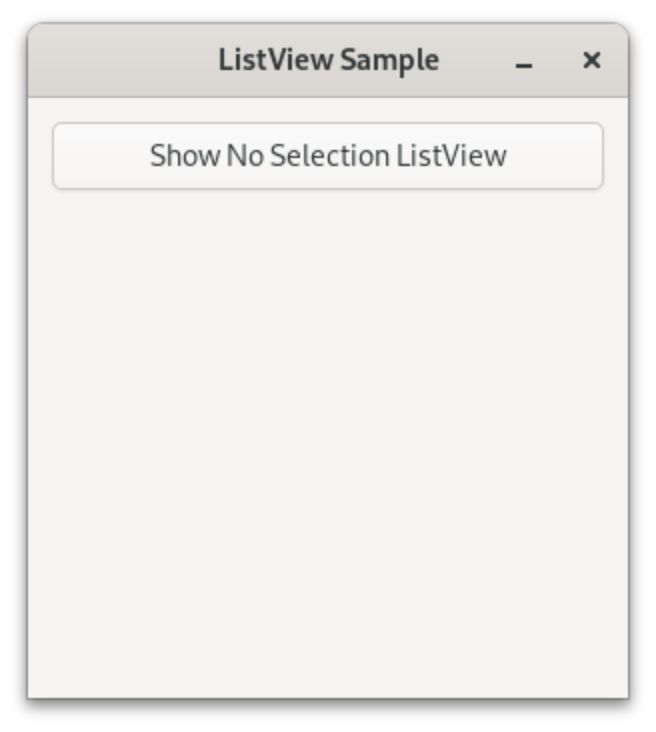
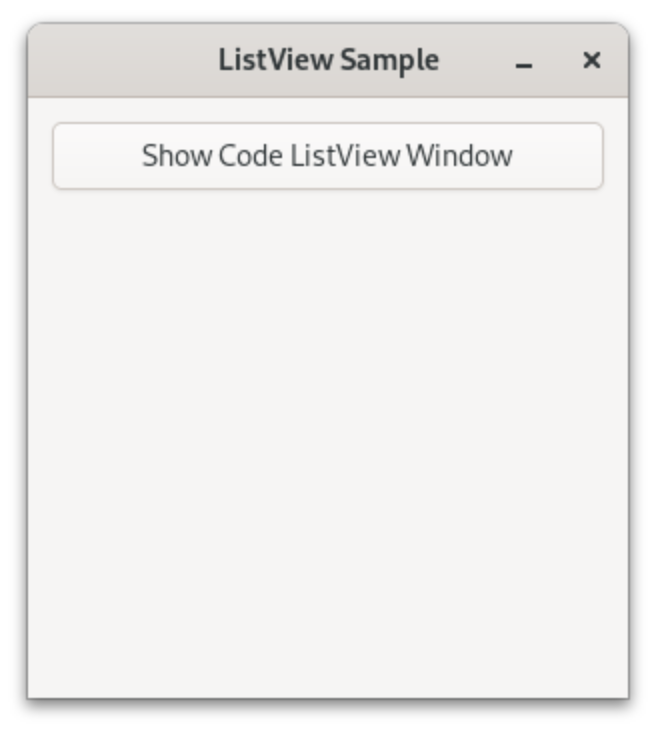
Refactored in separate class to better reflect listitem template does not need signal handlers

Changed region(s): [[0.2134, 0.1803, 0.7927, 0.2404]]

diff --git a/ListView.App/CodeListViewWindow.cs b/ListView.App/CodeListViewWindow.cs
@@ -1,17 +1,14 @@
 namespace ListView.App;
 
-using System.Reflection;
 using Gtk;
-using GObject;
 using static Gtk.SignalListItemFactory;
-using GLib;
 
-public class NoSelectionListViewWindow : Window
+public class CodeListViewWindow : Window
 {
-    public NoSelectionListViewWindow()
+    public CodeListViewWindow()
         : base()
     {
-        Title = "No Selection ListView";
+        Title = "Code ListView";
         SetDefaultSize(300, 300);
 
         var stringList = StringList.New(["One", "Two", "Three", "Four"]);
@@ -24,23 +21,7 @@ public class NoSelectionListViewWindow : Window
 
         var scrolledWindow = ScrolledWindow.New();
         scrolledWindow.Child = listView;
-        scrolledWindow.WidthRequest = 150;
-
-        var singleSelectionModel = SingleSelection.New(stringList);
-        var bytes = Assembly.GetExecutingAssembly()
-            .ReadResourceAsByteArray("ListItemTemplate.ui");
-        var builderListItemFactory = BuilderListItemFactory.NewFromBytes(null, Bytes.New(bytes));
-        var listViewRight = ListView.New(singleSelectionModel, builderListItemFactory);
-
-        var scrolledWindowRight = ScrolledWindow.New();
-        scrolledWindowRight.WidthRequest = 150;
-        scrolledWindowRight.Child = listViewRight;
-
-        var gtkBox = Gtk.Box.New(Gtk.Orientation.Horizontal, 0);
-        gtkBox.Append(scrolledWindow);
-        gtkBox.Append(scrolledWindowRight);
-
-        Child = gtkBox;
+        Child = scrolledWindow;
     }
 
     private void SetupSignalHandler(SignalListItemFactory sender, SetupSignalArgs args)

diff --git a/ListView.App/Program.cs b/ListView.App/Program.cs
@@ -3,11 +3,15 @@
 var application = Gtk.Application.New("org.kashif-code-samples.listview.sample", Gio.ApplicationFlags.FlagsNone);
 application.OnActivate += (sender, args) =>
 {
-    var buttonShowNoSelectionListView = CreateButton("Show No Selection ListView");
-    buttonShowNoSelectionListView.OnClicked += (_, _) => new NoSelectionListViewWindow().Show();
+    var buttonShowCodeListView = CreateButton("Show Code ListView Window");
+    buttonShowCodeListView.OnClicked += (_, _) => new CodeListViewWindow().Show();
+
+    var buttonShowTemplateListView = CreateButton("Show Template ListView Window");
+    buttonShowTemplateListView.OnClicked += (_, _) => new TemplateListViewWindow().Show();
 
     var gtkBox = Gtk.Box.New(Gtk.Orientation.Vertical, 0);
-    gtkBox.Append(buttonShowNoSelectionListView);
+    gtkBox.Append(buttonShowCodeListView);
+    gtkBox.Append(buttonShowTemplateListView);
 
     var window = Gtk.ApplicationWindow.New((Gtk.Application) sender);
     window.Title = "ListView Sample";

diff --git a/ListView.App/TemplateListViewWindow.cs b/ListView.App/TemplateListViewWindow.cs
@@ -1,0 +1,27 @@
+namespace ListView.App;
+
+using System.Reflection;
+using Gtk;
+using GObject;
+using GLib;
+
+public class TemplateListViewWindow : Window
+{
+    public TemplateListViewWindow()
+        : base()
+    {
+        Title = "Template ListView";
+        SetDefaultSize(300, 300);
+
+        var stringList = StringList.New(["One", "Two", "Three", "Four"]);
+        var selectionModel = SingleSelection.New(stringList);
+        var bytes = Assembly.GetExecutingAssembly()
+            .ReadResourceAsByteArray("ListItemTemplate.ui");
+        var listItemFactory = BuilderListItemFactory.NewFromBytes(null, Bytes.New(bytes));
+        var listView = ListView.New(selectionModel, listItemFactory);
+
+        var scrolledWindow = ScrolledWindow.New();
+        scrolledWindow.Child = listView;
+        Child = scrolledWindow;
+    }
+}

diff --git a/README.md b/README.md
@@ -41,7 +41,7 @@ Running the application, will display an empty window.
 
 ## No Selection ListView
 Next lets enhance our sample application to add a window that has a simple `ListView` with no selection.
-First lets add a new class `NoSelectionListViewWindow` inherting from `Gtk.Window` to our project.
+First lets add a new class `CodeListViewWindow` inherting from `Gtk.Window` to our project.
 `ListView` will need 2 objects,
 * SelctionModel - is an interface to support selection of items
 * ListItemFactory - creates or recycles GtkListItem and connects it with an item of the list model.
@@ -52,9 +52,9 @@ You might get a warning on `ListView` is a namespace but being used as a type, t
 
 Here is the code for the class.
 ```csharp
-public class NoSelectionListViewWindow : Window
+public class CodeListViewWindow : Window
 {
-    public NoSelectionListViewWindow()
+    public CodeListViewWindow()
         : base()
     {
         Title = "No Selection ListView";
@@ -110,11 +110,11 @@ Update the `OnActivate` handler as follows.
 ```csharp
 application.OnActivate += (sender, args) =>
 {
-    var buttonShowNoSelectionListView = CreateButton("Show No Selection ListView");
-    buttonShowNoSelectionListView.OnClicked += (_, _) => new NoSelectionListViewWindow().Show();
+    var buttonShowCodeListView = CreateButton("Show Code ListView Window");
+    buttonShowCodeListView.OnClicked += (_, _) => new CodeListViewWindow().Show();
 
     var gtkBox = Gtk.Box.New(Gtk.Orientation.Vertical, 0);
-    gtkBox.Append(buttonShowNoSelectionListView);
+    gtkBox.Append(buttonShowCodeListView);
 
     var window = Gtk.ApplicationWindow.New((Gtk.Application) sender);
     window.Title = "ListView Sample";
@@ -140,13 +140,13 @@ static Gtk.Button CreateButton(string label)
 Running the application will show our application window with a button.  
 <figure>
   <a href="images/02-app-window-with-button.png"><img src="images/02-app-window-with-button.png"></a>
-  <figcaption>Empty Window</figcaption>
+  <figcaption>Application Window</figcaption>
 </figure>  
 
 And clicking on that button will open a new window with a simple list as follows.  
 <figure>
-  <a href="images/03-list-view-window.png"><img src="images/03-list-view-window.png"></a>
-  <figcaption>Empty Window</figcaption>
+  <a href="images/03-code-list-view-window.png"><img src="images/03-code-list-view-window.png"></a>
+  <figcaption>Code List View Window</figcaption>
 </figure>  
 
 ## BuilderListItemFactory
@@ -168,33 +168,50 @@ I have added the following ui file copied from [article](https://toshiocp.github
 </interface>
 ```
 
-I have added another scrolled window and list view in `NoSelectionListViewWindow`. `ListItemTemplate.ui` file is set as Embedded Resource and for `ReadResourceAsByteArray` we would need to add `using GObject;`. Following code is added replacing last line of the constructor.
+Next I have added another class `TemplateListViewWindow` with following content. `ListItemTemplate.ui` file is set as Embedded Resource and for `ReadResourceAsByteArray` we would need to add `using GObject;`.
 ```csharp
-        scrolledWindow.WidthRequest = 150;
+using System.Reflection;
+using Gtk;
+using GObject;
+using GLib;
 
-        var singleSelectionModel = SingleSelection.New(stringList);
+public class TemplateListViewWindow : Window
+{
+    public TemplateListViewWindow()
+        : base()
+    {
+        Title = "Template ListView";
+        SetDefaultSize(300, 300);
+
+        var stringList = StringList.New(["One", "Two", "Three", "Four"]);
+        var selectionModel = SingleSelection.New(stringList);
         var bytes = Assembly.GetExecutingAssembly()
             .ReadResourceAsByteArray("ListItemTemplate.ui");
-        var builderListItemFactory = BuilderListItemFactory.NewFromBytes(null, Bytes.New(bytes));
-        var listViewRight = ListView.New(singleSelectionModel, builderListItemFactory);
+        var listItemFactory = BuilderListItemFactory.NewFromBytes(null, Bytes.New(bytes));
+        var listView = ListView.New(selectionModel, listItemFactory);
 
-        var scrolledWindowRight = ScrolledWindow.New();
-        scrolledWindowRight.WidthRequest = 150;
-        scrolledWindowRight.Child = listViewRight;
-
-        var gtkBox = Gtk.Box.New(Gtk.Orientation.Horizontal, 0);
-        gtkBox.Append(scrolledWindow);
-        gtkBox.Append(scrolledWindowRight);
-
-        Child = gtkBox;
+        var scrolledWindow = ScrolledWindow.New();
+        scrolledWindow.Child = listView;
+        Child = scrolledWindow;
+    }
+}
 ```
 
-Running the sample now produces following window.  
+And I have added a button to show this new window on our application window in `Program.cs`.
+```csharp
+    var buttonShowTemplateListView = CreateButton("Show Template ListView Window");
+    buttonShowTemplateListView.OnClicked += (_, _) => new TemplateListViewWindow().Show();
+    ...
+    gtkBox.Append(buttonShowTemplateListView);
+```
+Window with ListItem template looks like following  
 <figure>
-  <a href="images/04-two-list-views.png"><img src="images/04-two-list-views.png"></a>
-  <figcaption>Empty Window</figcaption>
+  <a href="images/04-template-list-view.png"><img src="images/04-template-list-view.png"></a>
+  <figcaption>Window with ListItem Template</figcaption>
 </figure>  
 
+## Wrapup
+Here is how you can use Gtk ListView in your application, hopefully it would be a good starting point for anyone looking to start using ListView in C# with code or template.
 
 ## Source
 Source code for the sample application is available on GitHub in [gtk4-dotnet8-list-view](https://github.com/kashif-code-samples/gtk4-dotnet8-list-view) repository.
